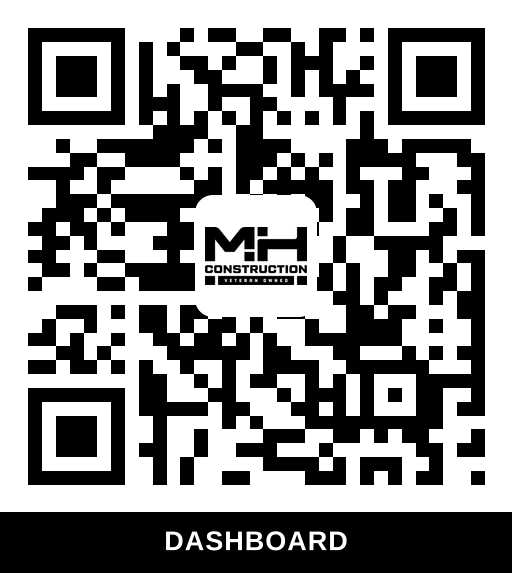
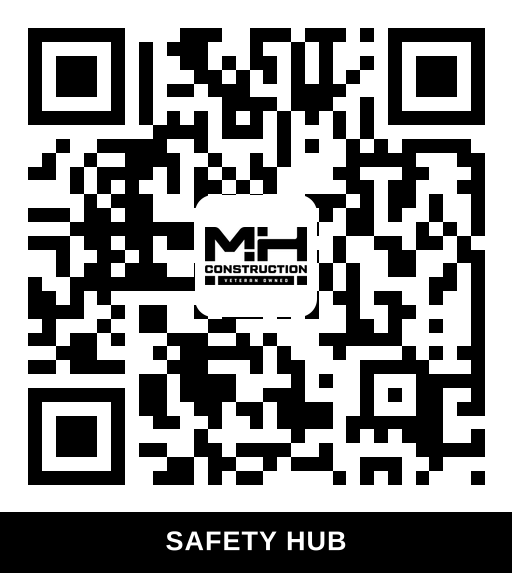
fix(qr): audit and fix QR code links, add incident-report QR
- Remove booking QR (exact duplicate of contact)
- Remove 4 orphaned QR sets for non-existent routes (case-studies,
  estimator, trade-partners, veteran-benefits) - 20 files
- Fix safety-program QR: /resources/safety-program -> /safety (direct)
- Fix safety-dashboard QR: /dashboard (admin CRM) -> /safety/hub
- Fix linkedin QR URL to match COMPANY_INFO canonical URL
- Add safety-incident-report QR -> /safety/incident-report
- Fix 14 broken team-data.json qrCode paths (missing -color suffix)
- Regenerate affected QR PNG + webp images via generate-qr-codes.js

diff --git a/scripts/generate-qr-codes.js b/scripts/generate-qr-codes.js
@@ -130,13 +130,6 @@ const QR_CODES = [
     description: "Traho RFQ - Direct Contact",
     label: "TRAHO CONTACT",
   },
-  {
-    name: "booking",
-    url: `${BASE_URL}/contact`,
-    description: "Schedule Consultation",
-    label: "www.mhc-gc.com/contact",
-  },
-
   // Special pages
   {
     name: "allies",
@@ -182,9 +175,15 @@ const QR_CODES = [
   },
   {
     name: "safety-program",
-    url: `${BASE_URL}/resources/safety-program`,
+    url: `${BASE_URL}/safety`,
     description: "Safety Program",
-    label: "www.mhc-gc.com/resources/safety-program",
+    label: "www.mhc-gc.com/safety",
+  },
+  {
+    name: "safety-incident-report",
+    url: `${BASE_URL}/safety/incident-report`,
+    description: "Safety Incident Report Form",
+    label: "www.mhc-gc.com/safety/incident-report",
   },
   {
     name: "safety-intake",
@@ -290,7 +289,7 @@ const QR_CODES = [
   // Social media (actual links from Footer.tsx)
   {
     name: "linkedin",
-    url: "https://www.linkedin.com/company/mh-construction-general-contractor/posts/?feedView=all",
+    url: "https://www.linkedin.com/company/mh-construction-general-contractor/",
     description: "LinkedIn Profile",
     label: "LINKEDIN",
   },
@@ -416,9 +415,9 @@ const QR_CODES = [
   // Safety Program & Dashboard
   {
     name: "safety-dashboard",
-    url: `${BASE_URL}/dashboard`,
-    description: "Safety Program Dashboard",
-    label: "DASHBOARD",
+    url: `${BASE_URL}/safety/hub`,
+    description: "Safety Hub (Employee Operations)",
+    label: "SAFETY HUB",
   },
 ];
 

diff --git a/public/images/qr-codes/README.md b/public/images/qr-codes/README.md
@@ -1,6 +1,6 @@
 # QR Codes for MH Construction
 
-Generated: 4/21/2026, 11:48:36 PM
+Generated: 4/22/2026, 10:59:34 PM
 
 ## Summary
 
@@ -154,18 +154,6 @@ Generated: 4/21/2026, 11:48:36 PM
 - **File:** `qr-traho-contact-bw.png`
 - **URL:** https://www.mhc-gc.com/contact?ref=traho-rfq
 
-### ✅ Schedule Consultation
-
-- **Name:** `booking`
-- **File:** `qr-booking-color.png`
-- **URL:** https://www.mhc-gc.com/contact
-
-### ✅ Schedule Consultation
-
-- **Name:** `booking`
-- **File:** `qr-booking-bw.png`
-- **URL:** https://www.mhc-gc.com/contact
-
 ### ✅ Allies
 
 - **Name:** `allies`
@@ -254,13 +242,25 @@ Generated: 4/21/2026, 11:48:36 PM
 
 - **Name:** `safety-program`
 - **File:** `qr-safety-program-color.png`
-- **URL:** https://www.mhc-gc.com/resources/safety-program
+- **URL:** https://www.mhc-gc.com/safety
 
 ### ✅ Safety Program
 
 - **Name:** `safety-program`
 - **File:** `qr-safety-program-bw.png`
-- **URL:** https://www.mhc-gc.com/resources/safety-program
+- **URL:** https://www.mhc-gc.com/safety
+
+### ✅ Safety Incident Report Form
+
+- **Name:** `safety-incident-report`
+- **File:** `qr-safety-incident-report-color.png`
+- **URL:** https://www.mhc-gc.com/safety/incident-report
+
+### ✅ Safety Incident Report Form
+
+- **Name:** `safety-incident-report`
+- **File:** `qr-safety-incident-report-bw.png`
+- **URL:** https://www.mhc-gc.com/safety/incident-report
 
 ### ✅ Safety Intake Form
 
@@ -458,13 +458,13 @@ Generated: 4/21/2026, 11:48:36 PM
 
 - **Name:** `linkedin`
 - **File:** `qr-linkedin-color.png`
-- **URL:** https://www.linkedin.com/company/mh-construction-general-contractor/posts/?feedView=all
+- **URL:** https://www.linkedin.com/company/mh-construction-general-contractor/
 
 ### ✅ LinkedIn Profile
 
 - **Name:** `linkedin`
 - **File:** `qr-linkedin-bw.png`
-- **URL:** https://www.linkedin.com/company/mh-construction-general-contractor/posts/?feedView=all
+- **URL:** https://www.linkedin.com/company/mh-construction-general-contractor/
 
 ### ✅ Facebook Page
 
@@ -694,17 +694,17 @@ Generated: 4/21/2026, 11:48:36 PM
 - **File:** `qr-team-jennifer-tene-bw.png`
 - **URL:** https://www.mhc-gc.com/team#jennifer-tene
 
-### ✅ Safety Program Dashboard
+### ✅ Safety Hub (Employee Operations)
 
 - **Name:** `safety-dashboard`
 - **File:** `qr-safety-dashboard-color.png`
-- **URL:** https://www.mhc-gc.com/dashboard
+- **URL:** https://www.mhc-gc.com/safety/hub
 
-### ✅ Safety Program Dashboard
+### ✅ Safety Hub (Employee Operations)
 
 - **Name:** `safety-dashboard`
 - **File:** `qr-safety-dashboard-bw.png`
-- **URL:** https://www.mhc-gc.com/dashboard
+- **URL:** https://www.mhc-gc.com/safety/hub
 
 ## Usage in React Components
 
